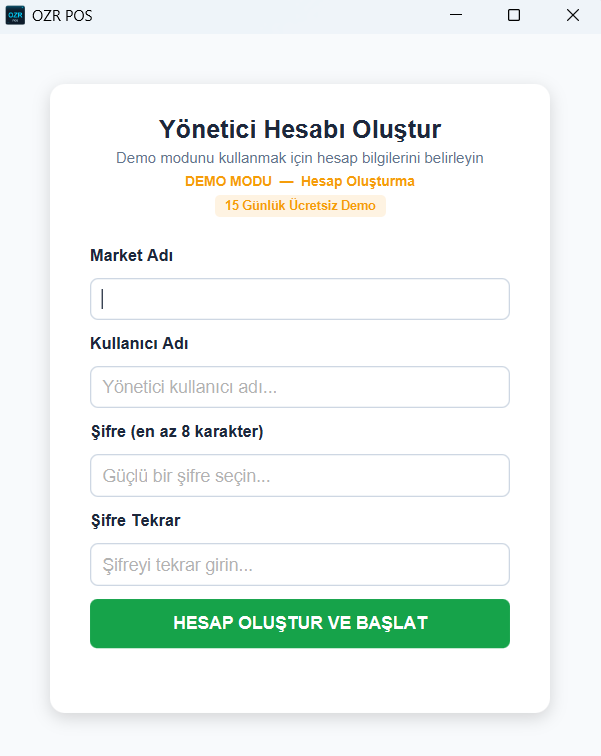
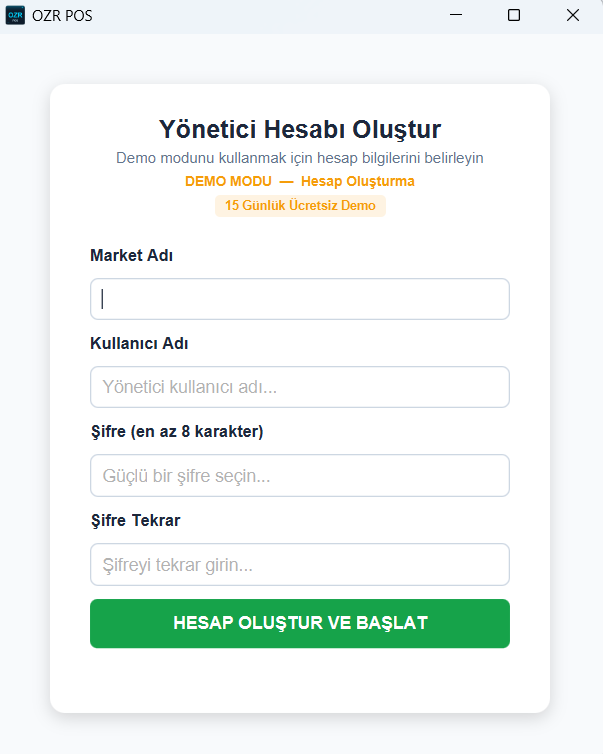
site: eksik kalan 3 demo ekranini galeriye ekle
demo.png (hesap olusturma) tazelendi; demo-banner.jpg (kalan sure
bildirimi) ve lisans-aktivasyon.jpg (lisans gecisi) yeni eklendi.

diff --git a/index.html b/index.html
@@ -154,6 +154,14 @@
         <img src="assets/img/ilk-kurulum.png" alt="İlk kurulum ve demo başlatma ekranı" loading="lazy">
         <div class="ekran-adi">🚀 5 Dakikada Kurulum</div>
       </div>
+      <div class="ekran-kart">
+        <img src="assets/img/demo-banner.jpg" alt="15 günlük demo süresi bildirimi" loading="lazy">
+        <div class="ekran-adi">🎯 15 Gün Ücretsiz Demo</div>
+      </div>
+      <div class="ekran-kart">
+        <img src="assets/img/lisans-aktivasyon.jpg" alt="Lisans aktivasyon ekranı" loading="lazy">
+        <div class="ekran-adi">🔓 Kolay Lisans Aktivasyonu</div>
+      </div>
     </div>
   </div>
 </section>
